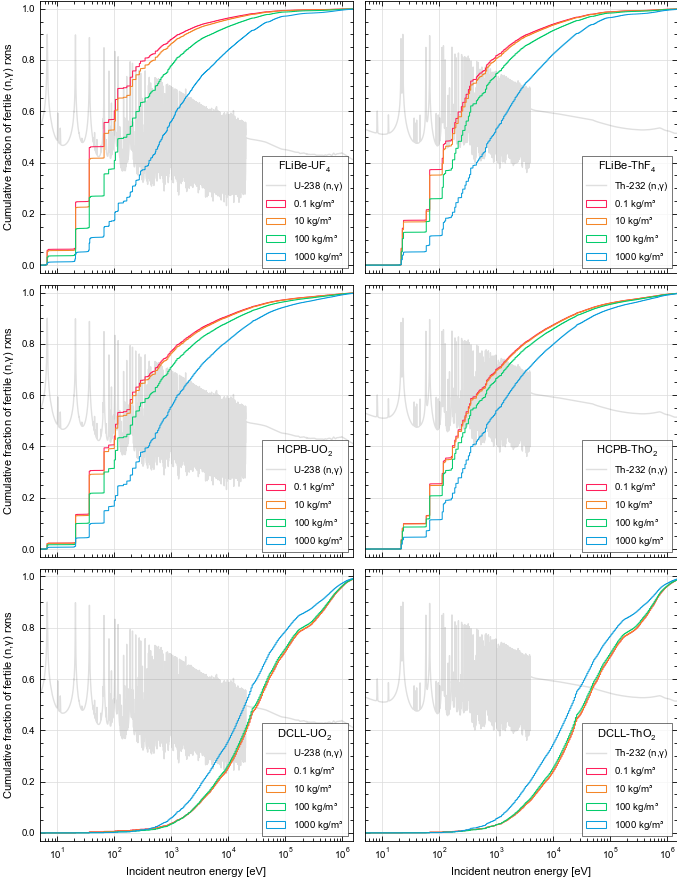
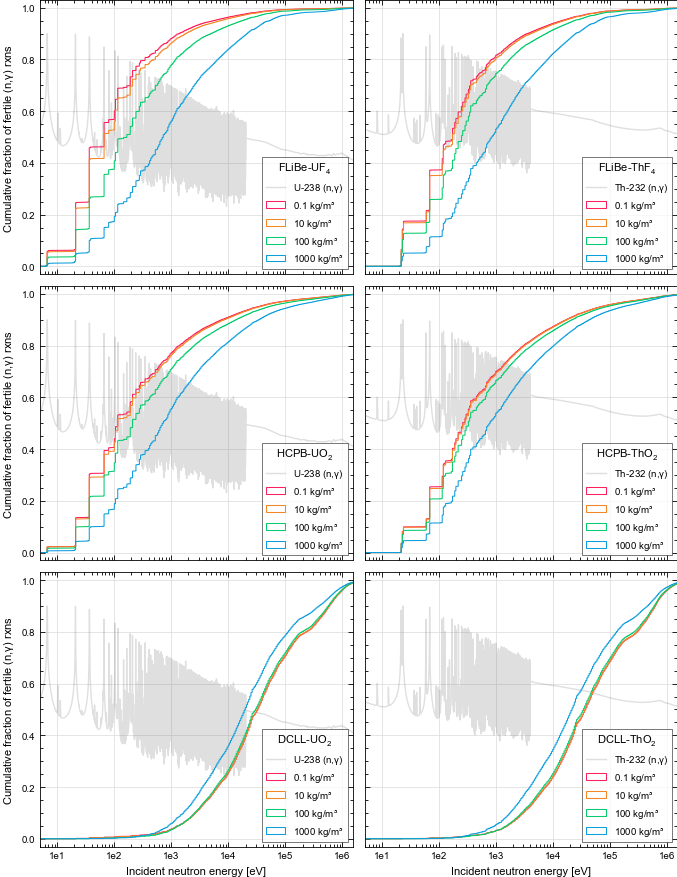
added nu-fis, (n,n'), (n,3n), (n,a) tallies

diff --git a/plot.py b/plot.py
@@ -24,17 +24,17 @@ class Plot:
         self.hcpb_u_rr_df   = read_and_sort("./Figures/Data/HCPB_900K_Li60.0_U238_rxns.csv")
         self.hcpb_th_rr_df  = read_and_sort("./Figures/Data/HCPB_900K_Li60.0_Th232_rxns.csv")
 
-        self.flibe_u_ng_df  = read_and_sort("./Figures/Data/FLiBe_900K_Li07.5_U238_n-gamma.csv")
-        self.flibe_th_ng_df = read_and_sort("./Figures/Data/FLiBe_900K_Li07.5_Th232_n-gamma.csv")
-        self.dcll_u_ng_df   = read_and_sort("./Figures/Data/DCLL_900K_Li90.0_U238_n-gamma.csv")
-        self.dcll_th_ng_df  = read_and_sort("./Figures/Data/DCLL_900K_Li90.0_Th232_n-gamma.csv")
-        self.hcpb_u_ng_df   = read_and_sort("./Figures/Data/HCPB_900K_Li60.0_U238_n-gamma.csv")
-        self.hcpb_th_ng_df  = read_and_sort("./Figures/Data/HCPB_900K_Li60.0_Th232_n-gamma.csv")
+        self.flibe_u_ebins_df  = read_and_sort("./Figures/Data/FLiBe_900K_Li07.5_U238_Ebins_rxns.csv")
+        self.flibe_th_ebins_df = read_and_sort("./Figures/Data/FLiBe_900K_Li07.5_Th232_Ebins_rxns.csv")
+        self.dcll_u_ebins_df   = read_and_sort("./Figures/Data/DCLL_900K_Li90.0_U238_Ebins_rxns.csv")
+        self.dcll_th_ebins_df  = read_and_sort("./Figures/Data/DCLL_900K_Li90.0_Th232_Ebins_rxns.csv")
+        self.hcpb_u_ebins_df   = read_and_sort("./Figures/Data/HCPB_900K_Li60.0_U238_Ebins_rxns.csv")
+        self.hcpb_th_ebins_df  = read_and_sort("./Figures/Data/HCPB_900K_Li60.0_Th232_Ebins_rxns.csv")
 
         self.flibe_u_rr_df = self.flibe_u_rr_df[self.flibe_u_rr_df['fertile_kg/m3'] <= LIMIT_UF4_FLIBE]
         self.flibe_th_rr_df = self.flibe_th_rr_df[self.flibe_th_rr_df['fertile_kg/m3'] <= LIMIT_THF4_FLIBE]
-        self.flibe_u_ng_df = self.flibe_u_ng_df[self.flibe_u_ng_df['fertile_kg/m3'] <= LIMIT_UF4_FLIBE]
-        self.flibe_th_ng_df = self.flibe_th_ng_df[self.flibe_th_ng_df['fertile_kg/m3'] <= LIMIT_THF4_FLIBE]
+        self.flibe_u_ebins_df = self.flibe_u_ebins_df[self.flibe_u_ebins_df['fertile_kg/m3'] <= LIMIT_UF4_FLIBE]
+        self.flibe_th_ebins_df = self.flibe_th_ebins_df[self.flibe_th_ebins_df['fertile_kg/m3'] <= LIMIT_THF4_FLIBE]
 
         # ------------------------------------------------------------------
         # Weigh TBRs and FPRs by correction factor derived from wedge models
@@ -297,8 +297,9 @@ class Plot:
             else:
                 ax.plot(th232_energy, th232_mxs_shifted, linewidth=1.0, color='gray', alpha=0.25, label=fr'Th-232 $($n,$\gamma)$')
 
-        titles = [r"FLiBe-UF$_4$", r"FLiBe-ThF$_4$", r"HCPB-UO$_2$", r"HCPB-ThO$_2$", r"DCLL-UO$_2$", r"DCLL-ThO$_2$",]
-        dfs    = [self.flibe_u_ng_df, self.flibe_th_ng_df, self.hcpb_u_ng_df, self.hcpb_th_ng_df, self.dcll_u_ng_df, self.dcll_th_ng_df,]
+        titles  = [r"FLiBe-UF$_4$", r"FLiBe-ThF$_4$", r"HCPB-UO$_2$", r"HCPB-ThO$_2$", r"DCLL-UO$_2$", r"DCLL-ThO$_2$",]
+        dfs     = [self.flibe_u_ebins_df, self.flibe_th_ebins_df, self.hcpb_u_ebins_df, self.hcpb_th_ebins_df, self.dcll_u_ebins_df, self.dcll_th_ebins_df,]
+        ng_cols = ['U238_ng', 'Th232_ng', 'U238_ng', 'Th232_ng', 'U238_ng', 'Th232_ng']
 
         densities_to_plot = [0.1, 10, 100, 999.99]
         colors = {0.1: '#ff1f5b', 10: '#f48628', 100: '#04cc6c', 999.99: '#0c9edd'}
@@ -307,14 +308,14 @@ class Plot:
         print(f"\n{'Panel':<20} {'Density [kg/m³]':>16} {'Mean [eV]':>12} {'Median [eV]':>13} {'Mode [eV]':>12}")
         print("-" * 75)
 
-        for ax, df, title in zip(axes.flatten(), dfs, titles):
+        for ax, df, title, ng_col in zip(axes.flatten(), dfs, titles, ng_cols):
 
             df = df[df["fertile_kg/m3"].isin(densities_to_plot)]
 
-            df_mean = df.groupby("fertile_kg/m3")["mean"].sum().to_frame()
-            df_mean.columns = ["sum"]   
-            df = df.merge(df_mean, on="fertile_kg/m3", how="left")
-            df['norm_mean'] = df['mean'] / df['sum']
+            df_sum = df.groupby("fertile_kg/m3")[ng_col].sum().to_frame()
+            df_sum.columns = ["sum"]   
+            df = df.merge(df_sum, on="fertile_kg/m3", how="left")
+            df['norm_mean'] = df[ng_col] / df['sum']
 
             bins = np.sort(df['energy mid [eV]'].unique())
 
@@ -345,6 +346,7 @@ class Plot:
             ax.grid(axis='y', which='major', linestyle='-', linewidth=0.5)
 
             ax.set_xscale('log')
+            ax.xaxis.set_major_formatter(FuncFormatter(lambda x, _: f'1e{int(np.log10(x))}' if x > 0 else ''))
             ax.set_xlim(0.5*1e1, 1.5*1e6)
             ax.set_ylim(-0.03, 1.03)
             fig.tight_layout()
@@ -643,6 +645,142 @@ class Plot:
         plt.close('all')
 
 
+    def plot_neutron_balance(self):
+        """
+        Cumulative neutron balance vs. energy.
+ 
+        3x2 grid: rows = FLiBe / HCPB / DCLL, columns = U / Th.
+        Each panel shows cumulative neutron gain/loss curves for four
+        reaction channels at two fertile loadings (0.1 and 1000 kg/m3).
+ 
+        Channels and neutron weights:
+          Be9 or Pb (n,2n)             -> +1
+          U235 + fertile isotope fis   -> +(nu_bar - 1)   [approximate]
+          Fertile isotope (n,gamma)    -> -1
+          Li6 (n,Xt)                   -> -1
+        """
+        print(f"\nPlotting cumulative neutron balance vs energy...")
+ 
+        # Approximate nu-bar values
+        # TODO: replace with nu-fission tally for energy-dependent accuracy
+        NU_U235  = 2.5
+        NU_U238  = 2.8
+        NU_TH232 = 2.3
+ 
+        # Panel layout: (dataframe, title, fertile_iso, nu_fertile, row, col)
+        panels = [
+            (self.flibe_u_ebins_df,  r'FLiBe-UF$_4$',  'U238',  NU_U238,  0, 0),
+            (self.flibe_th_ebins_df, r'FLiBe-ThF$_4$', 'Th232', NU_TH232, 0, 1),
+            (self.hcpb_u_ebins_df,   r'HCPB-UO$_2$',   'U238',  NU_U238,  1, 0),
+            (self.hcpb_th_ebins_df,  r'HCPB-ThO$_2$',  'Th232', NU_TH232, 1, 1),
+            (self.dcll_u_ebins_df,   r'DCLL-UO$_2$',   'U238',  NU_U238,  2, 0),
+            (self.dcll_th_ebins_df,  r'DCLL-ThO$_2$',  'Th232', NU_TH232, 2, 1),
+        ]
+ 
+        densities_to_plot = [0.1, 999.99]
+        linestyles = {0.1: '-', 999.99: '--'}
+        linewidths = {0.1: 0.75, 999.99: 1.0}
+ 
+        # Channel colors
+        colors = {
+            'n2n':  '#1D9E75',   # teal   -- neutron multiplier
+            'fis':  '#b41f24',   # red    -- fission
+            'ng':   '#0047ba',   # blue   -- fertile capture
+            'li6':  '#EF9F27',   # amber  -- tritium breeding
+        }
+
+        from matplotlib.lines import Line2D
+        legend_handles = [
+            Line2D([0], [0], color=colors['n2n'], lw=1.5, label=r'Be$/$Pb $($n,2n$)$: +1'),
+            Line2D([0], [0], color=colors['fis'], lw=1.5, label=r'Fission: +$(\bar\nu - 1)$'),
+            Line2D([0], [0], color='black', ls='-',  lw=1.0, label=r'0.1 kg$/$m³'),
+            Line2D([0], [0], color=colors['ng'],  lw=1.5, label=r'Fertile $($n,$\gamma)$: $-$1'),
+            Line2D([0], [0], color=colors['li6'], lw=1.5, label=r'Li-6 $($n,t$)$: $-$1'),
+            Line2D([0], [0], color='black', ls='--', lw=1.0,  label=r'1000 kg$/$m³'),
+        ]
+ 
+        fig, axes = plt.subplots(3, 2, figsize=(7, 9), sharex=True, sharey=True)
+ 
+        for df_Erxn, title, fert_iso, nu_fert, row, col in panels:
+            ax = axes[row, col]
+ 
+            for rho in densities_to_plot:
+ 
+                # Match closest available density
+                available = df_Erxn['fertile_kg/m3'].unique()
+                closest = min(available, key=lambda x: abs(x - rho))
+                spec = df_Erxn[df_Erxn['fertile_kg/m3'] == closest].copy()
+                spec = spec.sort_values('energy mid [eV]')
+ 
+                E_mid = spec['energy mid [eV]'].values
+                ls = linestyles[rho]
+                lw = linewidths[rho]
+ 
+                # Neutron-weighted channels
+
+                # Multiplier (n,2n): +1 per reaction
+                n2n = (+1) * (spec['Be9_n2n'].values + spec['Pb_n2n'].values)
+ 
+                # Fission: +(nu-1) for fertile + +(nu_U235 - 1) for U235
+                fis = ((nu_fert - 1) * spec[f'{fert_iso}_fis'].values
+                     + (NU_U235 - 1) * spec['U235_fis'].values)
+ 
+                # Fertile (n,gamma): -1 per reaction
+                ng = (-1) * spec[f'{fert_iso}_ng'].values
+ 
+                # Li-6 (n,t): -1 per reaction
+                li6 = (-1) * spec['Li6_nt'].values
+ 
+                # Cumulative sum from low to high energy
+                for key, vals in [('n2n', n2n), ('fis', fis), ('ng', ng), ('li6', li6)]:
+                    ax.semilogx(E_mid, np.cumsum(vals),
+                                color=colors[key], linestyle=ls, linewidth=lw)
+ 
+            # Axis formatting
+            # ax.axhline(0, color='gray', linewidth=0.5, zorder=0)
+ 
+            ax.xaxis.set_ticks_position('both')
+            ax.yaxis.set_ticks_position('both')
+            ax.grid(axis='both', which='major', linestyle='-', linewidth=0.5)
+            ax.set_xscale('log')
+            ax.xaxis.set_major_formatter(FuncFormatter(lambda x, _: f'1e{int(np.log10(x))}' if x > 0 else ''))
+            ax.set_xlim(0.5e1, 1.5e7)
+            ax.set_yscale('linear')
+            ax.set_ylim(-1.5*1.05, 0.75*1.05)
+            ax.yaxis.set_major_locator(MultipleLocator(0.25))
+ 
+            if ax.get_subplotspec().is_last_row():
+                ax.set_xlabel('Neutron energy [eV]')
+            if ax.get_subplotspec().is_first_col():
+                ax.set_ylabel(r'Cumulative $\Delta n$ / src-n')
+ 
+            # Panel title in upper-left corner
+            ax.text(0.02, 0.97, title, transform=ax.transAxes,
+                    va='top', ha='left') # fontsize=10, fontweight='bold', -- use default font size --ppark 2026-05-21
+
+            # Legend keys right beneath the title
+            if row in [0, 1, 2]:
+                leg = ax.legend(handles=legend_handles, loc='upper left',
+                                bbox_to_anchor=(0.00, 0.935),
+                                fontsize=7, ncol=2,
+                                fancybox=False, edgecolor='black',
+                                frameon=False, framealpha=0.75)
+                # leg.get_frame().set_linewidth(0.5)
+ 
+        fig.tight_layout()
+ 
+        if self.save:
+            plt.savefig('./Figures/PDF/fig_nbal.pdf', bbox_inches='tight', pad_inches=0.01, format='pdf')
+            plt.savefig('./Figures/PNG/fig_nbal.png', bbox_inches='tight', pad_inches=0.01, format='png')
+            print("Exported cumulative neutron balance plot: fig_nbal")
+        else:
+            print("Did not export neutron balance plot due to user setting.")
+ 
+        if self.show:
+            plt.show()
+        plt.close('all')
+
+
 
 
     
@@ -692,5 +830,7 @@ if __name__ == "__main__":
             combined_plot.plot_Rovern()
         elif p == 'leak':
             combined_plot.plot_leakage_spectra()
+        elif p == 'bal':
+            combined_plot.plot_neutron_balance()
 
     print("\nComment. <plot.py/plot_all()> All plotting commands completed.")

diff --git a/Python/reactor.py b/Python/reactor.py
@@ -101,28 +101,32 @@ class Reactor(OutputMixin, ABC):
         # Reaction rate tallies 
         # ---------------------------------------------------------------
 
-        # Fertile element reaction rates
-        fertile_tally_tot    = self.make_tally('Total fertile rxn rate',     ['(n,gamma)', 'fission', 'nu-fission','(n,2n)', 'elastic'], nuclides=['U238', 'U235', 'Th232'])
-        fertile_tally        = self.make_tally('Fertile rxn rates',          ['(n,gamma)', 'fission', 'nu-fission','(n,2n)', 'elastic'], filters=[cell_filter], nuclides=['U238', 'U235', 'Th232'])
-        fertile_energy_tally = self.make_tally('Fertile rxn rates spectrum', ['(n,gamma)', 'fission', 'nu-fission','(n,2n)', 'elastic'], filters=[cell_filter, energy_filter], nuclides=['U238', 'U235', 'Th232'])
+        # Fertile element reaction rates // MT 4 = inelastic scattering
+        fertile_tally_tot    = self.make_tally('Total fertile rxn rate',     ['(n,gamma)', 'fission', 'nu-fission','(n,2n)', '(n,3n)', 4, 'elastic'], nuclides=['U238', 'U235', 'Th232'])
+        fertile_tally        = self.make_tally('Fertile rxn rates',          ['(n,gamma)', 'fission', 'nu-fission','(n,2n)', '(n,3n)', 4, 'elastic'], nuclides=['U238', 'U235', 'Th232'], filters=[cell_filter])
+        fertile_energy_tally = self.make_tally('Fertile rxn rates spectrum', ['(n,gamma)', 'fission', 'nu-fission','(n,2n)', '(n,3n)', 4, 'elastic'], nuclides=['U238', 'U235', 'Th232'], filters=[cell_filter, energy_filter])
 
         # Lithium reaction rates
         Li_tally_tot    = self.make_tally('Total Li rxn rate',     ['(n,gamma)', '(n,Xt)', 'elastic'], nuclides=['Li6', 'Li7'])
-        Li_tally        = self.make_tally('Li rxn rates',          ['(n,gamma)', '(n,Xt)', 'elastic'], filters=[cell_filter], nuclides=['Li6', 'Li7'])
-        Li_energy_tally = self.make_tally('Li rxn rates spectrum', ['(n,gamma)', '(n,Xt)', 'elastic'], filters=[cell_filter, energy_filter], nuclides=['Li6', 'Li7'])
+        Li_tally        = self.make_tally('Li rxn rates',          ['(n,gamma)', '(n,Xt)', 'elastic'], nuclides=['Li6', 'Li7'], filters=[cell_filter], )
+        Li_energy_tally = self.make_tally('Li rxn rates spectrum', ['(n,gamma)', '(n,Xt)', 'elastic'], nuclides=['Li6', 'Li7'], filters=[cell_filter, energy_filter], )
 
         # Fluorine reaction rates
         # F_tally        = self.make_tally('F rxn rates', ['(n,gamma)', 'elastic'], filters=[cell_filter], nuclides=['F19'])
         # F_energy_tally = self.make_tally('F rxn rates spectrum', ['(n,gamma)', 'elastic'], filters=[cell_filter, energy_filter], nuclides=['F19'])
 
         # Beryllium reaction rates
-        Be_tally        = self.make_tally('Be rxn rates',          ['(n,gamma)', '(n,2n)', 'elastic'], filters=[cell_filter],                nuclides=['Be9'])
-        Be_energy_tally = self.make_tally('Be rxn rates spectrum', ['(n,gamma)', '(n,2n)', 'elastic'], filters=[cell_filter, energy_filter], nuclides=['Be9'])
-        Pb_tally        = self.make_tally('Pb rxn rates',          ['(n,gamma)', '(n,2n)', 'elastic'], filters=[cell_filter],                nuclides=['Pb204', 'Pb206', 'Pb207', 'Pb208'])
-        Pb_energy_tally = self.make_tally('Pb rxn rates spectrum', ['(n,gamma)', '(n,2n)', 'elastic'], filters=[cell_filter, energy_filter], nuclides=['Pb204', 'Pb206', 'Pb207', 'Pb208'])
+        Be_tally_tot    = self.make_tally('Total Be rxn rate',     ['(n,gamma)', '(n,2n)', '(n,a)', 'elastic'], nuclides=['Be9'])
+        Be_tally        = self.make_tally('Be rxn rates',          ['(n,gamma)', '(n,2n)', '(n,a)', 'elastic'], nuclides=['Be9'], filters=[cell_filter],                )
+        Be_energy_tally = self.make_tally('Be rxn rates spectrum', ['(n,gamma)', '(n,2n)', '(n,a)', 'elastic'], nuclides=['Be9'], filters=[cell_filter, energy_filter], )
+
+        # Lead reaction rates
+        Pb_tally_tot    = self.make_tally('Total Pb rxn rate',     ['(n,gamma)', '(n,2n)', 4, 'elastic'], nuclides=['Pb204', 'Pb206', 'Pb207', 'Pb208'])
+        Pb_tally        = self.make_tally('Pb rxn rates',          ['(n,gamma)', '(n,2n)', 4, 'elastic'], nuclides=['Pb204', 'Pb206', 'Pb207', 'Pb208'], filters=[cell_filter],               )
+        Pb_energy_tally = self.make_tally('Pb rxn rates spectrum', ['(n,gamma)', '(n,2n)', 4, 'elastic'], nuclides=['Pb204', 'Pb206', 'Pb207', 'Pb208'], filters=[cell_filter, energy_filter],)
 
 
-        self.tallies.extend([fertile_tally_tot, Li_tally_tot])
+        self.tallies.extend([fertile_tally_tot, Li_tally_tot, Be_tally_tot, Pb_tally_tot])
         self.tallies.extend([fertile_tally, Li_tally, Be_tally, Pb_tally])
         self.tallies.extend([current_tally, flux_tally])
         self.tallies.extend([heating_tally, fisq_tally])
@@ -130,8 +134,9 @@ class Reactor(OutputMixin, ABC):
         self.tallies.extend([current_energy_tally, flux_energy_tally]) 
         self.tallies.extend([heating_energy_tally, fisq_energy_tally])
 
-
-    def make_tally(self, name, scores, filters:list=None, nuclides:list=None):
+    
+    @staticmethod
+    def make_tally(name, scores, filters:list=None, nuclides:list=None):
         tally = openmc.Tally(name=name)
         tally.scores = scores
         if filters is not None: